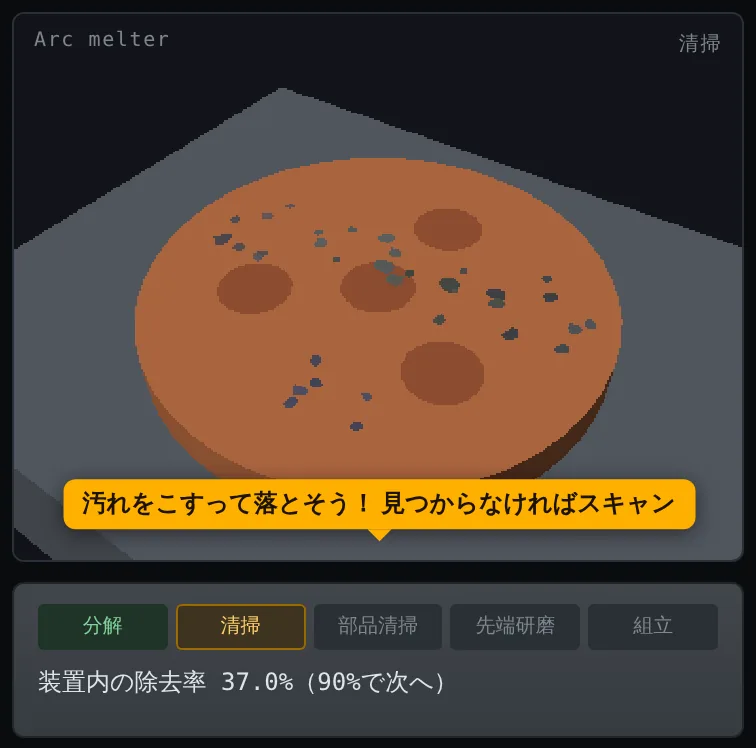
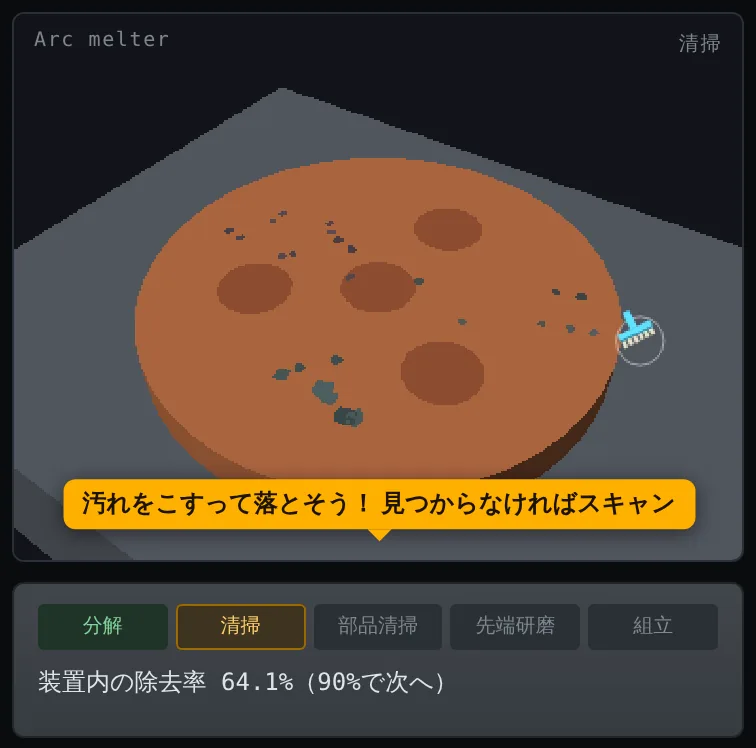
v60: first-hire notice with screenshots; wider brush with a cursor in the cleaning minigames
- firstHireTutorial plays as a CONV notice (no lines) with three shots:
  the hire list, Ben's task switches, an order under way
- Processing popups say 講習後に一括処理
- Cleaning samples a disc of 12 CSS px round the pointer (was a 5-point
  cross of 7 buffer px) and draws a brush there, jiggling while it rubs
- Notices with shots shrink text and picture on screens under 760 px tall

Claude-Session: https://claude.ai/code/session_01UWaUzJwC7EiNVx9Ep3UKit

diff --git a/labolic-playtest-60.html b/labolic-playtest-60.html
@@ -909,6 +909,11 @@
   .cv-shot-dots { display: flex; gap: 6px; }
   .cv-shot-dots i { width: 8px; height: 8px; border-radius: 50%; background: var(--line-light); }
   .cv-shot-dots i.on { background: var(--cv-accent); }
+  /* A short screen (an iPhone SE) cannot fit a long notice and a picture at
+     full size: both scroll / shrink so the window keeps its top on screen. */
+  @media (max-height: 760px) {
+    .cv-sysview.has-shots .cv-sys-text, .cv-shot img { max-height: 24vh; max-height: 24dvh; }
+  }
   .cv-cont { display: block; width: 100%; padding: 12px; border: none; border-radius: 4px; cursor: pointer;
     font-size: 14px; font-weight: 700; letter-spacing: .06em; background: var(--cv-accent); color: #fff; font-family: inherit; }
   .cv-cont:hover { background: var(--cv-accent-deep); }
@@ -11164,10 +11169,8 @@ function showFirstHireTutorial() {
   const ev = {
     id: 'firstHireTutorial',
     phase: 'Tutorial',
-    dialogue: [
-      ['system',
-        'Co-Workerを雇用しました！「CO」タブの「S, P, A, E, W」スイッチより、それぞれが担当する作業内容を選択できます。'],
-    ],
+    title: 'Co-Worker',
+    dialogue: [],
     popup:
       'Co-Workerを雇用しました！\n' +
       '「CO」タブの「S, P, A, E, W」スイッチより、それぞれが担当する作業内容を選択できます。\n\n' +
@@ -11176,6 +11179,11 @@ function showFirstHireTutorial() {
       '・A = Analysis（分析）\n' +
       '・E = Engineering（修理）\n' +
       '・W = Writing（論文Submit）',
+    shots: [
+      { src: 'assets/tutorial/cw-list.webp',  cap: '実験を手伝ってくれる仲間たち' },
+      { src: 'assets/tutorial/cw-tasks.webp', cap: '得手不得手に合わせて仕事を頼もう' },
+      { src: 'assets/tutorial/cw-exp.webp',   cap: '受注した実験を自動実行' },
+    ],
   };
   // Bypass the queue — this isn't part of the narrative chain, but should
   // still respect modal layering (don't barge in while another modal is up).
@@ -13380,7 +13388,7 @@ function renderProcPopup(meta) {
   popup.innerHTML = `
     <div class="popup-header">
       <div class="equip-mini"><div>${meta.name.slice(0,4)}</div><div>L${meta.lv}</div></div>
-      <div class="title"><div class="name">${meta.name}</div><div class="sub">Processing · 複数選択で一括処理</div></div>
+      <div class="title"><div class="name">${meta.name}</div><div class="sub">Processing · 講習後に一括処理</div></div>
       <button class="popup-close" onclick="closePopup()">×</button>
     </div>
     <div class="popup-body">
@@ -15522,7 +15530,9 @@ const UPDATE_LOG = [
            'ストーリー中の Co-Worker の故障率の説明を実際の値に修正',
            '講習の修了時と、一括処理ではじめて装置が故障したときの会話を追加',
            '一部のお知らせに画面の画像を表示',
-           'Furnace の講習で、ネックが細いほど高得点になることをゲージで表示']],
+           'Furnace の講習で、ネックが細いほど高得点になることをゲージで表示',
+           '合成系の講習の清掃で、こすって落とせる範囲を広げ、ブラシを表示',
+           '加工装置の画面の「複数選択で一括処理」を「講習後に一括処理」に修正']],
   ['v59', ['PC で装置のポップアップを開いているとき、Space / Enter キーで「Go!」を押せるように',
            '加工装置のポップアップで、1・2・3 キーで加工レベルを選べるように',
            'ポップアップの左下に操作キーを表示（PC のみ）',
@@ -16200,9 +16210,9 @@ function fireStoryEvent(ev) {
   if (ev.id === 'ST18') storyClearDay = Number(gameStats.day || 1);
   saveStoryFlags();
   pauseAi();
-  // Story events play as a conversation scene (CONV). The first-hire tutorial
-  // is a System notice rather than a conversation and keeps the panel below.
-  if (ev.id !== 'firstHireTutorial' && CONV.play(ev, { onEnd: () => closeStoryEvent(ev) })) return;
+  // Story events play as a conversation scene (CONV); the first-hire
+  // tutorial, which has no lines, as its notice alone.
+  if (CONV.play(ev, { onEnd: () => closeStoryEvent(ev) })) return;
   const backdrop = document.getElementById('story-event-backdrop');
   const panel = document.getElementById('story-event-panel');
   if (!backdrop || !panel) {
@@ -16879,6 +16889,7 @@ let shots = [], shotAt = 0;
 function showShots(list) {
   shots = Array.isArray(list) ? list : [];
   $('cv-shots').hidden = !shots.length;
+  $('cv-sysview').classList.toggle('has-shots', shots.length > 0);
   $('cv-shot-dots').innerHTML = shots.map(() => '<i></i>').join('');
   shotPage(0);
 }
@@ -16919,7 +16930,8 @@ function play(ev, opts = {}) {
     if (who === '_spacer') { beatNext = true; continue; }
     LINES.push([who, text, mark, beatNext]); beatNext = false;
   }
-  if (!LINES.length) return false;
+  // No lines but a notice (the first-hire tutorial): the notice alone.
+  if (!LINES.length && !ev.popup) return false;
   if (opts.replay && !aiPaused) { pauseAi(); pausedByReplay = true; }
   stage = $('cv-stage'); frame = $('cv-frame');
   loadPlayer();
@@ -16932,8 +16944,9 @@ function play(ev, opts = {}) {
   loadSprites().then(() => {
     if (EV !== ev) return;
     for (const id of Object.keys(actors)) if (id !== 'you' && actors[id].img !== images[id]) { actors[id].el.remove(); delete actors[id]; }
-    mode = 'dialogue';
     fitK();
+    if (!LINES.length) { showNotice(); return; }
+    mode = 'dialogue';
     showLine(idx = 0);
     $('cv-win').focus({ preventScroll: true });
     if (!looping) { looping = true; requestAnimationFrame(tick); }

diff --git a/minigames/mg-synth.js b/minigames/mg-synth.js
@@ -42,6 +42,7 @@
 
   const HL = [95, 227, 255];          // highlight colour (the guide colour)
   const RUB = 30;                     // buffer px of rubbing to clear a stain
+  const BRUSH = 12;                   // brush radius in CSS px: what a stroke reaches
   const PASS = 0.9;                   // removal rate that opens Next
   const SCANS = 3, SCAN_T = 4;        // scanner uses per game, seconds it shows
   const FLY_T = 0.8;                  // seconds for a part to travel
@@ -184,15 +185,26 @@
       // ---- input on the stage: taps take parts off and put them back,
       // drags rub stains ----
       let down = null, last = null, moved = 0;
+      // The brush drawn on the stage while cleaning: under the mouse
+      // whenever it is over the stage, under a finger while it touches.
+      const brush = { x: 0, y: 0, show: false, touch: false, rubT: -1 };
+      const aim = e => { brush.x = e.clientX; brush.y = e.clientY; };
       MG.drag(canvas, {
-        start(e) { down = last = [e.clientX, e.clientY]; moved = 0; rub(e, 6); },
+        start(e) {
+          down = last = [e.clientX, e.clientY]; moved = 0;
+          brush.touch = e.pointerType !== 'mouse'; brush.show = true; aim(e);
+          rub(e, 6);
+        },
         move(e) {
           const d = Math.hypot(e.clientX - last[0], e.clientY - last[1]);
           moved += d; last = [e.clientX, e.clientY];
+          aim(e);
           rub(e, d);
         },
-        end() { if (down && moved < 10) tap(down); down = null; },
+        end() { if (down && moved < 10) tap(down); down = null; if (brush.touch) brush.show = false; },
       });
+      canvas.addEventListener('pointermove', e => { if (e.pointerType === 'mouse') { brush.show = true; aim(e); } });
+      canvas.addEventListener('pointerleave', e => { if (e.pointerType === 'mouse' && !down) brush.show = false; });
 
       function tap([cx, cy]) {
         if (!ctx.running) return;
@@ -213,12 +225,16 @@
       function rub(e, dist) {
         if (!ctx.running || (S.phase !== 'clean' && S.phase !== 'parts')) return;
         const br = canvas.getBoundingClientRect(), k = r3.w / br.width;
-        // A brush, not a pin: sample a small cross around the finger.
+        // A brush, not a pin: sample a disc of BRUSH round the finger.
         const hit = new Set();
-        for (const [ox, oy] of [[0, 0], [7, 0], [-7, 0], [0, 7], [0, -7]]) {
-          const id = r3.pickAt(canvas, e.clientX + ox / k, e.clientY + oy / k);
-          if (id >= 1000) hit.add(id - 1000);
+        for (const [rr, n] of [[0, 1], [0.5, 6], [1, 10]]) {
+          for (let j = 0; j < n; j++) {
+            const a = j / n * Math.PI * 2;
+            const id = r3.pickAt(canvas, e.clientX + Math.cos(a) * rr * BRUSH, e.clientY + Math.sin(a) * rr * BRUSH);
+            if (id >= 1000) hit.add(id - 1000);
+          }
         }
+        if (hit.size) brush.rubT = S.t;
         for (const i of hit) {
           const s = dirt[i];
           if (s.hp <= 0 || !!s.part !== (S.phase === 'parts')) continue;
@@ -341,7 +357,35 @@
           }
           if (S.phase === 'special' && cfg.special.overlay) cfg.special.overlay(g, api);
           if (S.scanT > 0) drawScan(g);
+          drawBrush(g);
         });
+        canvas.style.cursor = ctx.running && cleaning() ? 'none' : '';
+      }
+
+      // The brush: its reach as a faint ring, and a scrubbing brush over it
+      // that jiggles while it is taking dirt off.
+      function drawBrush(g) {
+        if (!brush.show || !ctx.running || !cleaning()) return;
+        const br = canvas.getBoundingClientRect(), k = r3.w / br.width;
+        const x = (brush.x - br.left) * k, y = (brush.y - br.top) * k, R = BRUSH * k;
+        g.strokeStyle = 'rgba(255,255,255,0.45)';
+        g.lineWidth = 1;
+        g.beginPath(); g.arc(x, y, R, 0, Math.PI * 2); g.stroke();
+        const busy = S.t - brush.rubT < 0.15;
+        const jx = busy ? Math.sin(S.t * 60) * R * 0.12 : 0;
+        g.save();
+        g.translate(x + jx, y);
+        g.rotate(-0.45);
+        const w = R * 1.5, u = R / 8;
+        g.fillStyle = '#e8e2c8';                        // bristles, at the point of contact
+        for (let i = 0; i < 6; i++) g.fillRect(-w / 2 + i * w / 6 + u * 0.3, -u * 2.5, w / 6 - u * 0.6, u * 2.5);
+        g.fillStyle = '#5fe3ff';                        // the block
+        g.fillRect(-w / 2, -u * 5, w, u * 2.6);
+        g.fillStyle = '#2b7f99';
+        g.fillRect(-w / 2, -u * 2.9, w, u * 0.5);
+        g.fillStyle = '#5fe3ff';                        // the handle
+        g.fillRect(-u * 1.2, -u * 11, u * 2.4, u * 6.2);
+        g.restore();
       }
 
       // The scanner: a sweep out from the centre, then a marker on every
